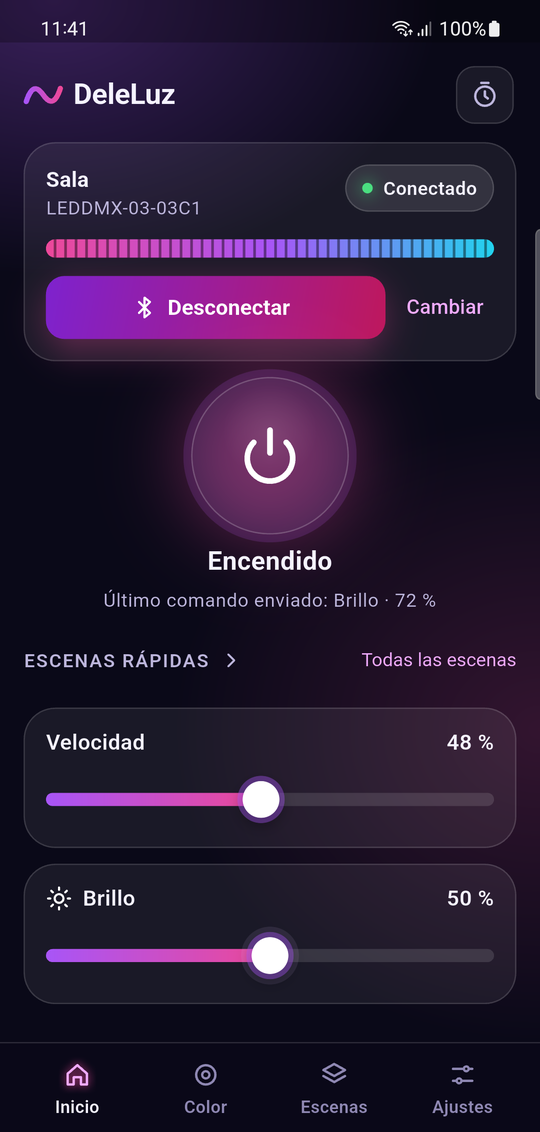
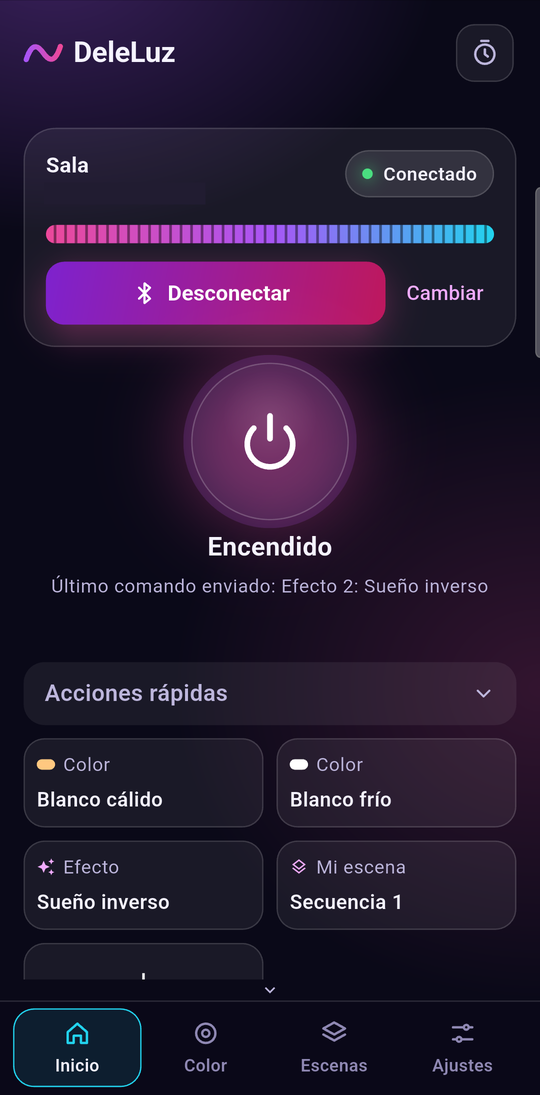
docs: 1.1.0 screenshots and showreel; fix Spanish effects note

diff --git a/app/lib/strings.dart b/app/lib/strings.dart
@@ -135,7 +135,7 @@ const _strings = <String, (String, String)>{
   'effectCatalogAll': ('Todos los efectos', 'All effects'),
   'effectSearchEmpty': ('No hay coincidencias.', 'No matching effects.'),
   'allEffects': ('Todos', 'All'),
-  'effectsNote': ('El controlador incluye los efectos del 1 al 210. Los nombres son los de la app del fabricante.', 'Effects 1–210 are built into the controller. Names come from the vendor app.'),
+  'effectsNote': ('El controlador incluye los efectos del 1 al 210. Los nombres están traducidos de la app del fabricante.', 'Effects 1–210 are built into the controller. Names come from the vendor app.'),
   'speed': ('Velocidad', 'Speed'),
   'speedEffectsHint': ('La velocidad aplica a efectos', 'Speed applies to effects'),
   'micSensitivity': ('Sensibilidad del micrófono', 'Microphone sensitivity'),

diff --git a/README.md b/README.md
@@ -40,13 +40,13 @@ Install 1.1.0 over 1.0.0 or a test build signed with the same key to keep your d
 
 ## What it looks like
 
-Las capturas muestran la versión 1.0.0. / These screenshots show version 1.0.0.
+Las capturas muestran la versión 1.1.0. / These screenshots show version 1.1.0.
 
-<p align="center"><img src="docs/app-screens/showreel.webp" width="300" alt="DeleLuz Android app tour: Inicio, Color, Escenas, Música, strip selector and Ajustes"></p>
+<p align="center"><img src="docs/app-screens/showreel.webp" width="300" alt="DeleLuz 1.1.0: fixed cyan, app AUTO cycling through effects, the built-in automatic cycle, and a countdown started and canceled"></p>
 
-| Inicio | Color | Escenas | Elegir tira |
+| Inicio | Color fijo | Escenas | Temporizador |
 |---|---|---|---|
-| <img src="docs/app-screens/01-inicio.png" width="180" alt="Inicio: connected strip, power and sliders"> | <img src="docs/app-screens/03-color.png" width="180" alt="Color wheel"> | <img src="docs/app-screens/05-escenas.png" width="180" alt="Included scenes"> | <img src="docs/app-screens/07-elegir-tira.png" width="180" alt="Strip selector with an alias"> |
+| <img src="docs/app-screens/01-inicio.png" width="180" alt="Home with Sala connected and Quick Actions expanded"> | <img src="docs/app-screens/03-color.png" width="180" alt="Color wheel with cyan selected, three white presets, and a brightness slider"> | <img src="docs/app-screens/05-escenas.png" width="180" alt="Included scenes with Ciclo automático selected"> | <img src="docs/app-screens/10-temporizador.png" width="180" alt="Shutdown timer counting down with a violet and pink ring and a Cancel control"> |
 
 **[List of the 210 built-in effects / Lista de los 210 efectos integrados](docs/EFFECTS.md)**, with the number and name shown in the app.
 

diff --git a/odd/tasks/app-ui-audit.md b/odd/tasks/app-ui-audit.md
@@ -78,3 +78,4 @@ no voy a conectar la tira aun, hasta que el app esté perffecta visualmente"
 - L22 (owner, 2026-11-26): "si" -> the strip turned off when the 10 s timer ended. Strip test complete (connect, strip effect, app scene, music mode, selection mark, timer).
 - L23 (owner, 2026-11-26): "si dale" to the parent's announced T21 list as ONE session without per-step approval: 1 Color fijo cyan, 2 app AUTO ~20 s, 3 Escenas Ciclo automático, 4 timer started then cancelled before it ends, 5 showreel repeating those steps (~30-40 s). This satisfies L19 for exactly that list; anything outside it needs a new announcement.
 - L24 (owner, 2026-11-26): "ya la encendí sigue" -> owner powered the strip on himself and asked to continue the L23 session. If the app still sends its own power-on/brightness preparation before cyan, that is covered by this "sigue".
+- L25 (T21, 2026-11-26): worker mwxwe0hs-c-z1wo. Strip commands: captures pass = cyan (with power-on/brightness prep), app AUTO ~20 s, Ciclo automático, 15 min timer started+cancelled; showreel pass = cyan, app AUTO ~20 s, timer started+cancelled (Ciclo automático not re-sent; showreel reuses the first-pass frame). No power-off sent. 13 PNGs 540x1095 in docs/app-screens (new: 02b, 04b, 05b, 05c, 10; 06-musica unchanged), showreel.webp 32 frames 36.1 s 370 KB; README and app/README updated. Parent review found F16: Spanish effects note still said names are the manufacturer's -> now "Los nombres están traducidos de la app del fabricante." (suite 394). Screens 04/04b still show the old note until re-captured.

diff --git a/app/README.md b/app/README.md
@@ -2,7 +2,9 @@
 
 Native Android app (Flutter) for the LEDDMX-03 LED strip controller, with the Glow Glass design of the phone webapp ([`../webapp/README.md`](../webapp/README.md)). It is shared as an APK, not through an app store. iPhone builds need macOS and are not covered here.
 
-<p align="center"><img src="../docs/app-screens/showreel.webp" width="300" alt="DeleLuz 1.0.0 Android app tour"></p>
+<p align="center"><img src="../docs/app-screens/showreel.webp" width="300" alt="DeleLuz 1.1.0: fixed cyan, app AUTO cycling through effects, the built-in automatic cycle, and a countdown started and canceled"></p>
+
+[Screenshot gallery](../docs/app-screens/) · [Quick Actions picker](../docs/app-screens/02b-accion-rapida-selector.png) · [Scene editor with color and effect steps](../docs/app-screens/05c-editor-escena.png)
 
 ## Install
 
